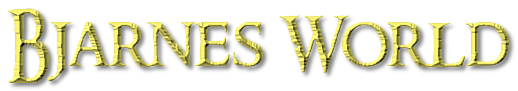
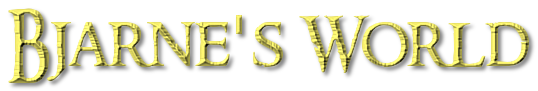
Bjarnes world fix

diff --git a/src/cutScene.java b/src/cutScene.java
@@ -1,3 +1,5 @@
+
+
 import java.awt.*;
 import java.awt.event.KeyEvent;
 
@@ -293,19 +295,20 @@ public class cutScene extends extraFunctions {
                 drawImage(wizardSpin[getAnimationFrame(timer, 0.16, 4)], wizardPosX, 50, g);
                 drawImage(smokeArray[getAnimationFrame(timer, 0.16, 34)], 80, 0, g);
             }
-            if((dt >= 27) && (BjarnePosX < 50) && dt < 30){
+            if((dt >= 27) && dt < 28){
                 BjarnePosX+=4;
                 drawImage(bjarneRight[flameChange%3], BjarnePosX, BjarnePosY, g);
             }
-            if(dt < 34 && BjarnePosX >=50){
+            if(dt <= 34 && dt > 26){
                 changeColor(white, g);
                 drawImage(dialogueBack, 90, 400, 620, 165, g);
                 drawText(110, 425, "Bjarne: ", "Times New Roman", 20, g);
-                drawText(110, 450, "HOW DARE YOU! MY HOME... MY-MY FAMILY! YOU'LL PAY FOR", "Times New Roman", 20, g);
-                drawText(110, 475, "THIS! I'll travel East to the town of Sepla to warn them. They need to ", "Times New Roman", 20, g);
-                drawText(110, 500, "be prepared.", "Times New Roman", 20, g);
+                drawText(110, 450, "HOW DARE YOU! MY HOME... MY-MY FAMILY! YOU'LL PAY ", "Times New Roman", 20, g);
+                drawText(110, 475, "FOR THIS! I'll travel East to the town of Sepla to warn. They need to ", "Times New Roman", 20, g);
+                drawText(110, 500, "them be prepared.", "Times New Roman", 20, g);
             }
-            if(/*(dt > 25) &&*/ (dt < 30) && BjarnePosX >=50){
+            if((dt < 30) && dt >=27){
+                System.out.println(dt);
                 BjarnePosX += 4;
                 drawImage(bjarneRight[flameChange % 3], BjarnePosX, BjarnePosY, g);
             }

diff --git a/src/StartScreen.java b/src/StartScreen.java
@@ -29,13 +29,13 @@ public class StartScreen extends extraFunctions {
     Image paper2 = loadImage("paper2.png");
     Image sword = loadImage("sword.png");
     Image sword2 = loadImage("sword2.png");
-    Image logo = loadImage("BjournesWorld.png");
+    Image Logo = loadImage("BjournesWorld.png");
     Image equipmentSprite = loadImage("equipmentSprite.png");
     Image background3;
     Image StartBackground;
     Image swordSprite;
     Image swordSprite2;
-    Image Logo;
+    //Image Logo;
     int cursorPositionY = 230;
     int num = 0;
     double timer =0;
@@ -62,7 +62,7 @@ public class StartScreen extends extraFunctions {
         swordSprite = subImage(sword, 0, 0, 1793, 445);
         swordSprite2 = subImage(sword2, 0, 0, 1793, 445);
         background3 = subImage(equipmentSprite, 0, 0, 800, 600);
-        Logo = subImage(logo, 0, 0,518,91);
+        //Logo = subImage(logo, 0, 0,518,91);
         buttonSprite = subImage(buttonSpriteSheet,30,70,180,80);
         CreditsEnd = new Credits();
 
@@ -180,7 +180,7 @@ public class StartScreen extends extraFunctions {
             stopAudioLoop(credits);
             clearBackground(800 ,600, g);
             drawImage(background3, 0, 0, g);
-            drawImage(logo, 130, 80, g);
+            drawImage(Logo, 130, 80, g);
             drawImage(buttonSprite, 275, 197, 225, 60, g);
             drawImage(buttonSprite, 275, 197+80, 225, 60, g);
             drawImage(buttonSprite, 275, 197+160, 225, 60, g);

diff --git a/src/Credits.java b/src/Credits.java
@@ -36,7 +36,7 @@ public class Credits extends extraFunctions{
         drawText(20, wordsScrollingY + 150, "- Wolf art from Naruto Ninja Council 3","Times New Roman", 20, g);
         drawText(20, wordsScrollingY + 175, "- Witch art from Lunar Legend","Times New Roman", 20, g);
         drawText(20, wordsScrollingY + 200, "- Wyvern art from Fire Emblem: Mystery of the Emblem","Times New Roman", 20, g);
-        drawText(20, wordsScrollingY + 225, "- Skeleton art form Castlevania: Bloodlines","Times New Roman", 20, g);
+        drawText(20, wordsScrollingY + 225, "- Skeleton art from Castlevania: Bloodlines","Times New Roman", 20, g);
         drawText(20, wordsScrollingY + 250, "- Giant art from Final Fantasy: Record Keeper","Times New Roman", 20, g);
         drawText(20, wordsScrollingY + 275, "- Vanguard art from Shining Force CD","Times New Roman", 20, g);
         drawText(20, wordsScrollingY + 300, "- Valliard art from Tales of Eternia","Times New Roman", 20, g);
